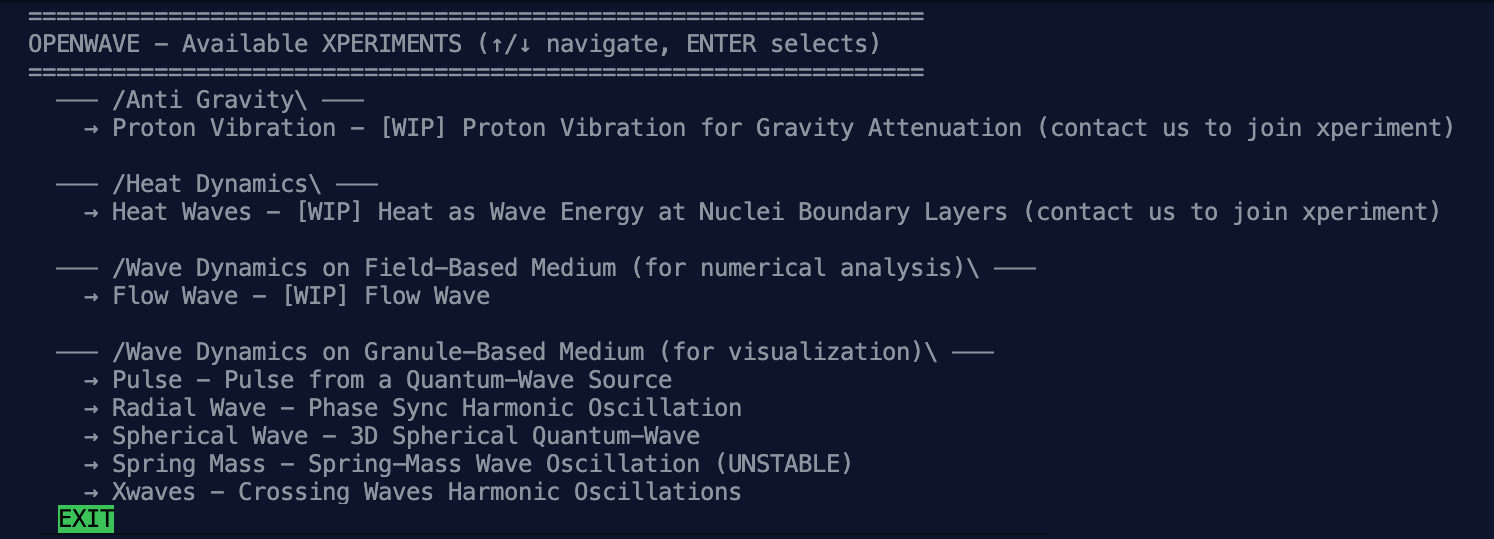
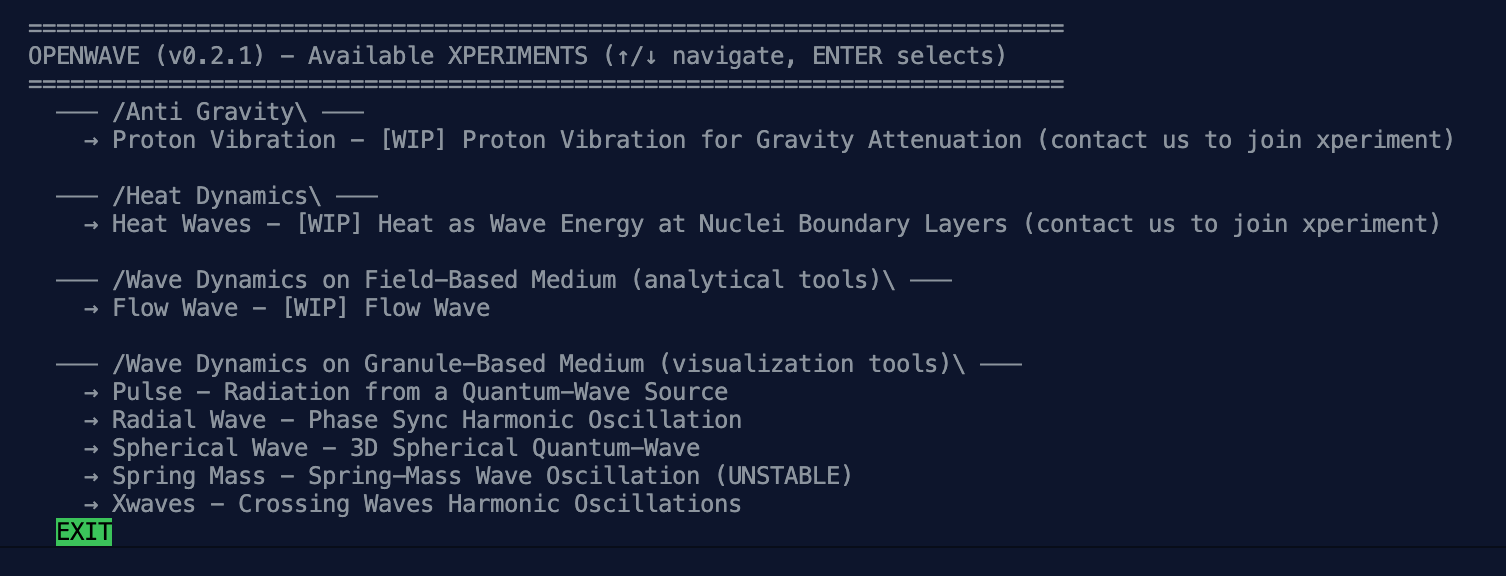
Update experiment docstrings and image asset
Refined docstrings in waves_field_medium and waves_granule_medium modules for clarity, and updated the tree-menu-placeholders.png image asset.

diff --git a/openwave/xperiments/waves_granule_medium/pulse.py b/openwave/xperiments/waves_granule_medium/pulse.py
@@ -1,5 +1,5 @@
 """
-XPERIMENT: Pulse from a Quantum-Wave Source
+XPERIMENT: Radiation from a Quantum-Wave Source
 
 Run sample XPERIMENTS shipped with the OpenWave package or create your own
 Tweak universe_edge and other parameters to explore different scales.

diff --git a/openwave/xperiments/waves_granule_medium/__init__.py b/openwave/xperiments/waves_granule_medium/__init__.py
@@ -1,5 +1,5 @@
 """
-Wave Dynamics on Granule-Based Medium (for visualization)
+Wave Dynamics on Granule-Based Medium (visualization tools)
 
 Experiments exploring wave dynamics using granule-based medium simulation.
 """

diff --git a/openwave/xperiments/waves_field_medium/__init__.py b/openwave/xperiments/waves_field_medium/__init__.py
@@ -1,5 +1,5 @@
 """
-Wave Dynamics on Field-Based Medium (for numerical analysis)
+Wave Dynamics on Field-Based Medium (analytical tools)
 
 Experiments exploring wave dynamics using field-based medium simulation.
 """
